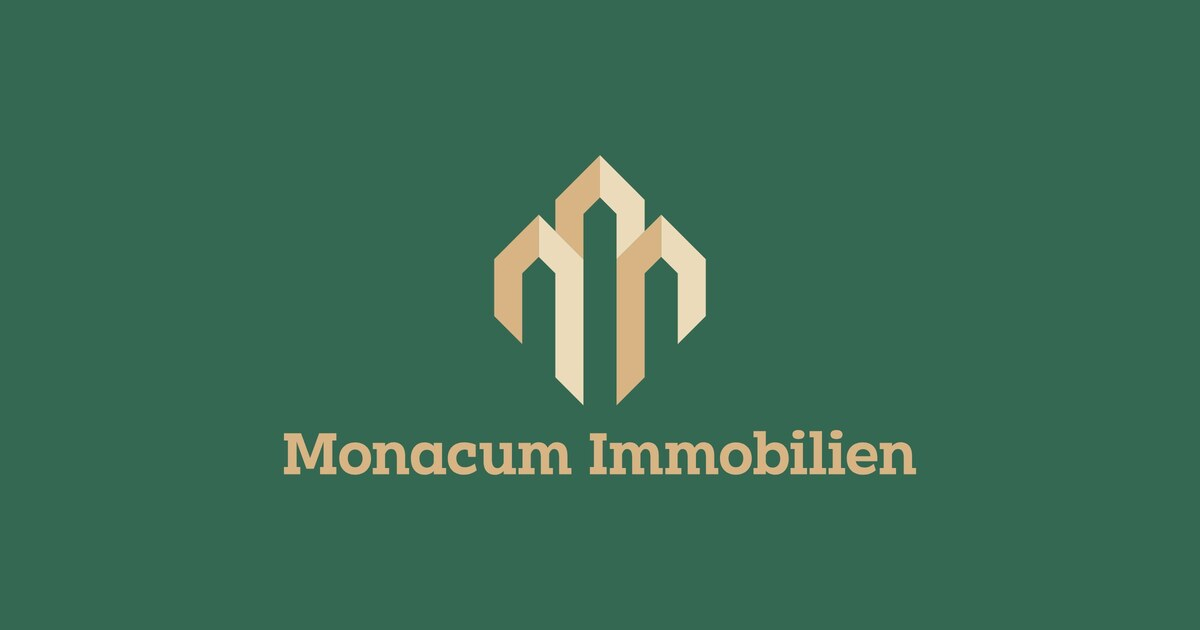
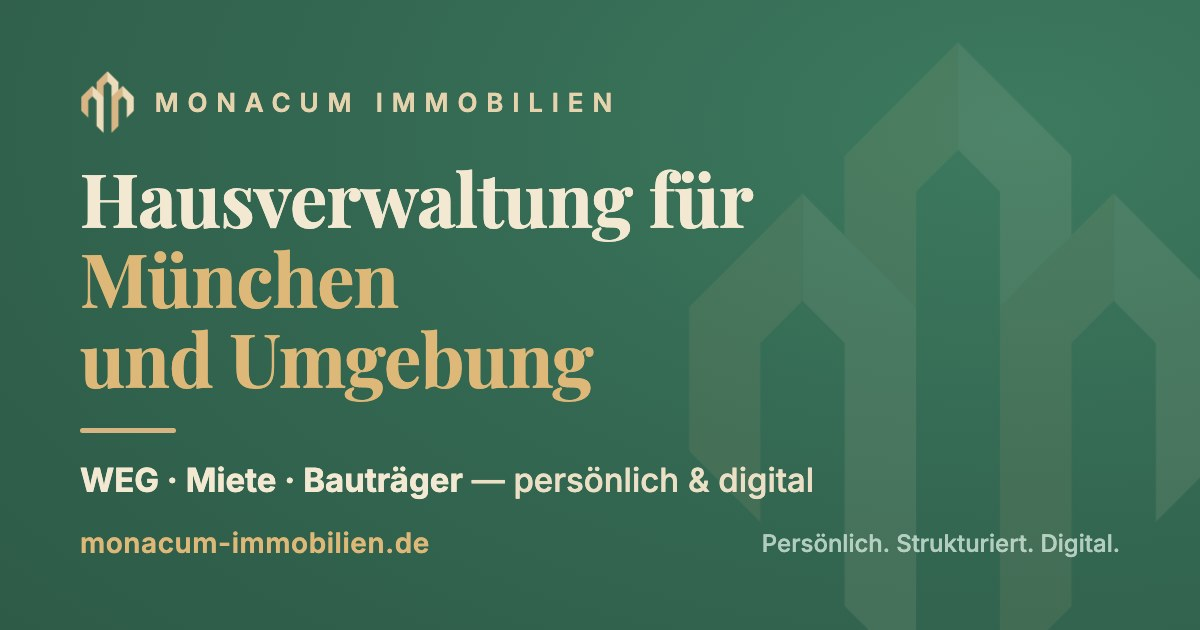
monacum-v2-6: redesign OG image with headline/CTA, shorten social metadata
Replace the logo-only OG image with a headline + supporting line rendered
in the site's brand system (green #346852, gold #D6B484, Playfair Display +
Inter, Monacum symbol). 1200x630 JPG, 62 KB.

Shorten social strings to platform display limits:
- title / og:title -> 49 chars (was 61+)
- og:description -> 118 chars (was 134)
- meta description -> 155 chars (was 174)
- sync twitter title/description and og:image:alt with new copy/image

Key terms preserved: München und Umgebung, WEG-Verwaltung, Mietverwaltung,
Bauträger. No new claims. pnpm build passes (static export).

Claude-Session: https://claude.ai/code/session_01HfRaj1Qka2V2i82JasfM6h

diff --git a/app/layout.tsx b/app/layout.tsx
@@ -17,8 +17,8 @@ const siteUrl = 'https://monacum-immobilien.de'
 
 export const metadata: Metadata = {
   metadataBase: new URL(siteUrl),
-  title: 'Monacum Immobilienverwaltung | Premium Hausverwaltung München',
-  description: 'Professionelle Immobilienverwaltung für München und Umgebung. Spezialisiert auf WEG-Verwaltung, Mietverwaltung und Bauträgerbetreuung. Persönlich, strukturiert, digital.',
+  title: 'Monacum – Hausverwaltung & WEG-Verwaltung München',
+  description: 'Immobilienverwaltung für München und Umgebung – spezialisiert auf WEG-Verwaltung, Mietverwaltung und Bauträgerbetreuung. Persönlich, strukturiert, digital.',
   keywords: 'Hausverwaltung München, WEG-Verwaltung, Immobilienverwaltung, Mietverwaltung, Bauträger München, Sondereigentumsverwaltung',
   alternates: {
     canonical: './',
@@ -37,21 +37,21 @@ export const metadata: Metadata = {
     locale: 'de_DE',
     url: siteUrl,
     siteName: 'Monacum Immobilienverwaltung',
-    title: 'Monacum Immobilienverwaltung | Premium Hausverwaltung München',
-    description: 'Professionelle Immobilienverwaltung für München und Umgebung. Spezialisiert auf WEG-Verwaltung, Mietverwaltung und Bauträgerbetreuung.',
+    title: 'Monacum – Hausverwaltung & WEG-Verwaltung München',
+    description: 'Hausverwaltung für München und Umgebung: WEG-Verwaltung, Mietverwaltung und Bauträgerbetreuung – persönlich & digital.',
     images: [
       {
         url: '/og-image.jpg',
         width: 1200,
         height: 630,
-        alt: 'Monacum Immobilienverwaltung',
+        alt: 'Monacum Immobilien – Hausverwaltung für München und Umgebung: WEG, Miete, Bauträger',
       },
     ],
   },
   twitter: {
     card: 'summary_large_image',
-    title: 'Monacum Immobilienverwaltung | Premium Hausverwaltung München',
-    description: 'Professionelle Immobilienverwaltung für München und Umgebung.',
+    title: 'Monacum – Hausverwaltung & WEG-Verwaltung München',
+    description: 'Hausverwaltung für München und Umgebung – WEG, Miete & Bauträger, persönlich & digital.',
     images: ['/og-image.jpg'],
   },
 }